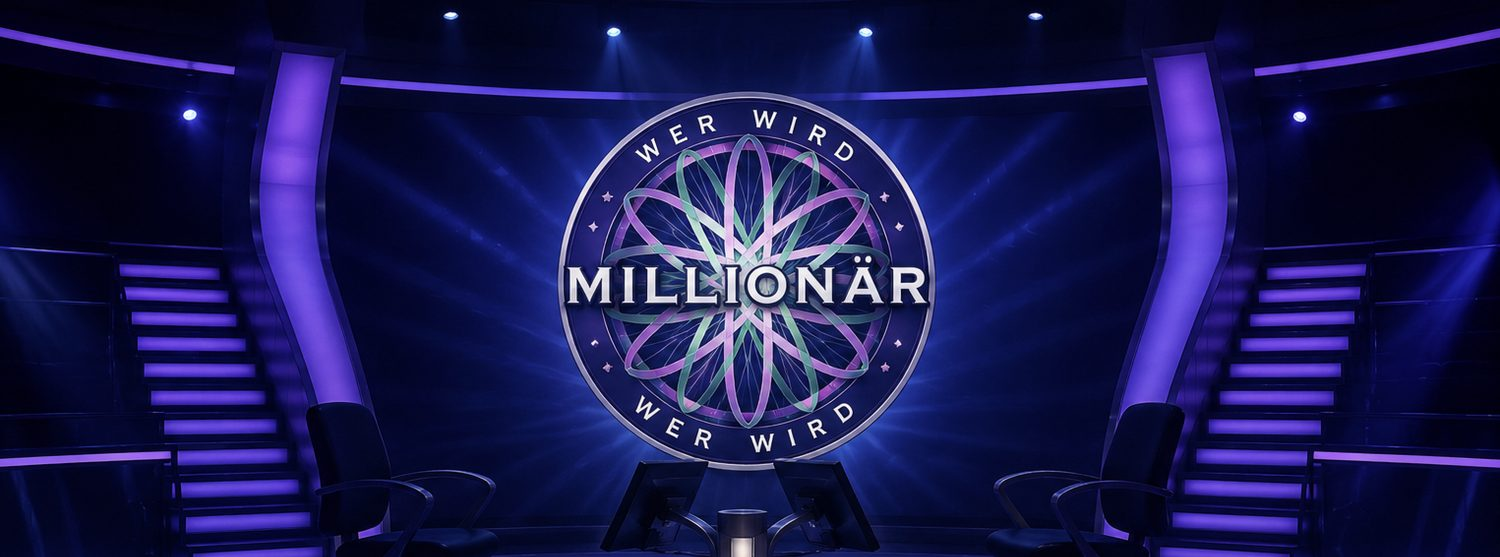
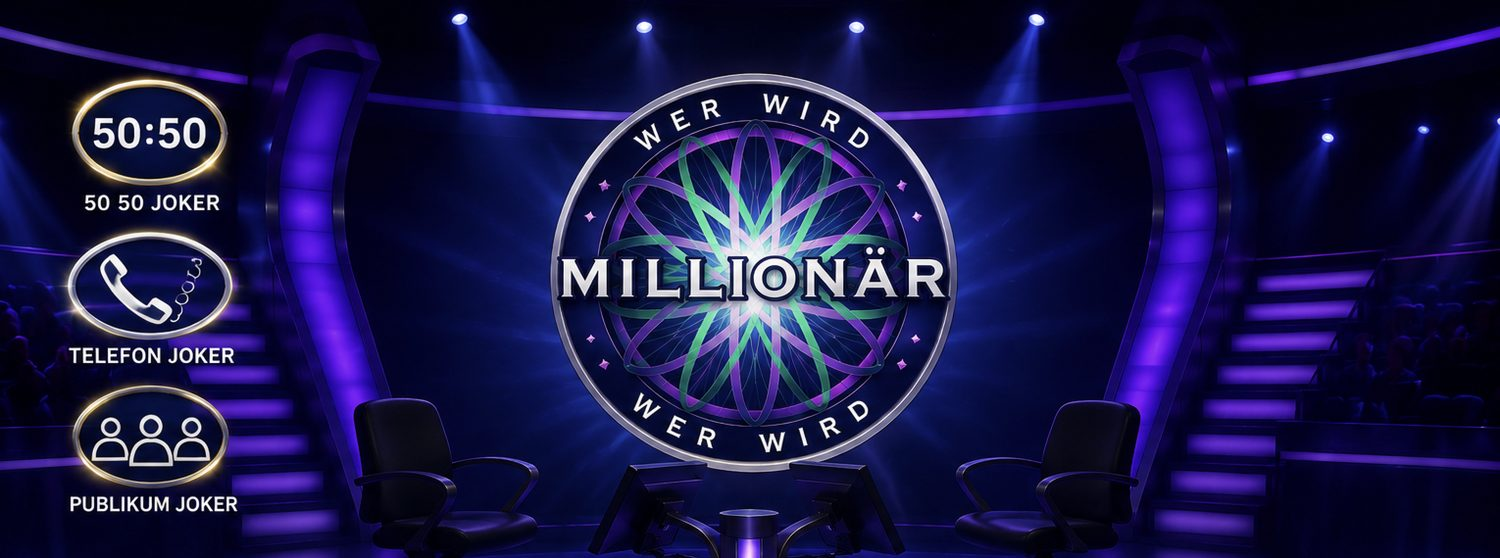
Rechtsfaehigkeit: drei spielbare Joker auf der Millionaers-Buehne

diff --git a/rechtsfaehigkeit.html b/rechtsfaehigkeit.html
@@ -109,7 +109,7 @@ h3{ font-size:15px; margin:16px 0 6px; color:var(--petrol); }
 .buehne{
   border-radius:16px; overflow:hidden; position:relative;
   background:#060a2a url('millionaer_buehne.jpg?v=1') top center / 100% auto no-repeat;
-  padding:clamp(120px,24vw,265px) clamp(14px,3vw,60px) 28px;
+  padding:38% clamp(14px,3vw,60px) 28px;
   box-shadow:0 8px 30px rgba(6,10,42,.5);
 }
 .buehne::before{
@@ -156,6 +156,42 @@ h3{ font-size:15px; margin:16px 0 6px; color:var(--petrol); }
 }
 .q-neustart:hover{ background:#fff; }
 .buehne .qstand{ color:#F3CE8E; text-align:center; margin-bottom:0; }
+/* Joker */
+.joker-overlay{ position:absolute; top:0; left:0; width:100%; aspect-ratio:3060/1139; pointer-events:none; }
+.joker-overlay button{
+  position:absolute; left:4.3%; width:10.4%; pointer-events:auto;
+  background:transparent; border:none; border-radius:50%; cursor:pointer;
+  transition:box-shadow .15s;
+}
+.joker-overlay button:hover{ box-shadow:0 0 0 3px rgba(243,206,142,.85), 0 0 24px rgba(243,206,142,.6); }
+.joker-overlay #j5050{ top:14.5%; height:17.5%; }
+.joker-overlay #jtel{ top:42.5%; height:19%; }
+.joker-overlay #jpub{ top:70.5%; height:19.5%; }
+.joker-overlay button.verbraucht{ pointer-events:none; background:rgba(4,6,28,.55); }
+.joker-overlay button.verbraucht::after{
+  content:'✕'; position:absolute; inset:0; display:flex; align-items:center; justify-content:center;
+  color:#ff7a6e; font-size:clamp(18px,2.6vw,34px); font-weight:800;
+}
+.joker-zeile{ display:none; gap:8px; justify-content:center; margin:0 0 12px; }
+.joker-zeile button{
+  font:inherit; font-weight:800; font-size:13px; cursor:pointer;
+  border:1.5px solid rgba(243,206,142,.7); border-radius:999px; color:#F3CE8E;
+  background:rgba(6,10,42,.6); padding:7px 14px;
+}
+.joker-zeile button.verbraucht{ opacity:.35; pointer-events:none; text-decoration:line-through; }
+.joker-ausgabe{
+  display:none; max-width:640px; margin:0 auto 14px; padding:12px 16px; border-radius:12px;
+  background:rgba(6,10,42,.75); border:1.5px solid rgba(243,206,142,.55); color:#fff; font-size:14px;
+}
+.joker-ausgabe.zeig{ display:block; }
+.joker-ausgabe .balkenzeile{ display:flex; align-items:center; gap:8px; margin:5px 0; }
+.joker-ausgabe .balkenzeile b{ width:22px; color:#F3CE8E; }
+.joker-ausgabe .balken{ height:16px; background:linear-gradient(180deg,#5a79e8,#2c48b8); border-radius:4px; }
+.joker-ausgabe .prozent{ font-size:12.5px; color:#aab4e8; }
+@media (max-width:900px){
+  .joker-overlay{ display:none; }
+  .joker-zeile{ display:flex; flex-wrap:wrap; }
+}
 @media (max-width:640px){
   .buehne .qoptzeile{ grid-template-columns:1fr; }
   .buehne{ background-size:cover; }
@@ -322,7 +358,18 @@ footer{ text-align:center; padding:18px 12px 26px; }
   <!-- ================= QUIZ ================= -->
   <section class="seite" id="seite-quiz">
     <div class="buehne">
+      <div class="joker-overlay" aria-label="Joker">
+        <button type="button" id="j5050" data-joker="fifty" title="50:50-Joker – eine falsche Antwort verschwindet"></button>
+        <button type="button" id="jtel" data-joker="tel" title="Telefonjoker – ein Anruf, ein Tipp"></button>
+        <button type="button" id="jpub" data-joker="pub" title="Publikumsjoker – das Publikum stimmt ab"></button>
+      </div>
       <p class="b-hinweis">Eine falsche Antwort – und die Runde ist vorbei. Jede Runde bringt andere Fragen. <b>Wer schafft 10 am Stück?</b></p>
+      <div class="joker-zeile">
+        <button type="button" data-joker="fifty">50:50</button>
+        <button type="button" data-joker="tel">☎ Telefon</button>
+        <button type="button" data-joker="pub">👥 Publikum</button>
+      </div>
+      <div class="joker-ausgabe" id="jokerAusgabe"></div>
       <div class="leiter" id="qLeiter"></div>
       <div id="quizListe"></div>
       <p class="qstand" id="qstand"></p>
@@ -589,6 +636,7 @@ var POOL = [
 ];
 var ZIEL = 10;
 var runde = [], stufe = 0, best = 0;
+var joker = { fifty:false, tel:false, pub:false };
 try{ best = parseInt(sessionStorage.getItem('recht_quiz_best')||'0',10)||0; }catch(e){}
 var ql = document.getElementById('quizListe');
 var leiter = document.getElementById('qLeiter');
@@ -618,14 +666,73 @@ function zeigeStand(){
 function neueRunde(){
   runde = mischen(POOL).slice(0, ZIEL);
   stufe = 0;
+  joker = { fifty:false, tel:false, pub:false };
+  document.querySelectorAll('[data-joker]').forEach(function(b){ b.classList.remove('verbraucht'); });
   zeichneLeiter(); zeigeStand();
   naechsteFrage();
 }
+var jokerAusgabe = document.getElementById('jokerAusgabe');
+function jokerZu(){ jokerAusgabe.classList.remove('zeig'); jokerAusgabe.innerHTML=''; }
+function verbrauche(name){
+  joker[name] = true;
+  document.querySelectorAll('[data-joker="'+name+'"]').forEach(function(b){ b.classList.add('verbraucht'); });
+}
+function nutzeJoker(name){
+  var q = runde[stufe];
+  if (!q || joker[name] || document.querySelector('.q-ende')) return;
+  var opts = Array.prototype.slice.call(document.querySelectorAll('.qoptzeile .qopt'));
+  if (!opts.length) return;
+  verbrauche(name);
+  if (name === 'fifty'){
+    var falsche = [];
+    opts.forEach(function(b, j){ if (j !== q.r && b.style.visibility !== 'hidden') falsche.push(j); });
+    var weg = falsche[Math.floor(Math.random()*falsche.length)];
+    opts[weg].style.visibility = 'hidden';
+    jokerAusgabe.innerHTML = '<b style="color:#F3CE8E">50:50:</b> Eine falsche Antwort ist gestrichen.';
+    jokerAusgabe.classList.add('zeig');
+  }
+  if (name === 'tel'){
+    var sichtbar = [];
+    opts.forEach(function(b, j){ if (b.style.visibility !== 'hidden') sichtbar.push(j); });
+    var tipp = (Math.random() < 0.75) ? q.r : sichtbar.filter(function(j){ return j !== q.r; })[0];
+    if (tipp === undefined) tipp = q.r;
+    var buchst = ['A','B','C','D'][tipp];
+    jokerAusgabe.innerHTML = '<b style="color:#F3CE8E">☎ Dein Telefonjoker:</b> «Hmm … ich bin ziemlich sicher, es ist <b>' + buchst + '</b>. Aber nagle mich nicht fest!»'
+      + '<div class="prozent" style="margin-top:4px">Telefonjoker liegen meistens richtig – aber nicht immer.</div>';
+    jokerAusgabe.classList.add('zeig');
+  }
+  if (name === 'pub'){
+    var sicht = [];
+    opts.forEach(function(b, j){ if (b.style.visibility !== 'hidden') sicht.push(j); });
+    var korrekt = 45 + Math.floor(Math.random()*31);
+    var rest = 100 - korrekt;
+    var andere = sicht.filter(function(j){ return j !== q.r; });
+    var werte = {};
+    werte[q.r] = korrekt;
+    andere.forEach(function(j, k){
+      if (k === andere.length-1){ werte[j] = rest; }
+      else { var t = Math.floor(Math.random()*rest); werte[j] = t; rest -= t; }
+    });
+    var html = '<b style="color:#F3CE8E">👥 Das Publikum hat abgestimmt:</b>';
+    sicht.forEach(function(j){
+      html += '<div class="balkenzeile"><b>' + ['A','B','C','D'][j] + '</b>'
+        + '<div class="balken" style="width:' + Math.max(3, werte[j]*2.6) + 'px"></div>'
+        + '<span class="prozent">' + werte[j] + ' %</span></div>';
+    });
+    html += '<div class="prozent" style="margin-top:4px">Auch das Publikum kann sich täuschen.</div>';
+    jokerAusgabe.innerHTML = html;
+    jokerAusgabe.classList.add('zeig');
+  }
+}
+document.querySelectorAll('[data-joker]').forEach(function(b){
+  b.addEventListener('click', function(){ nutzeJoker(b.dataset.joker); });
+});
 function merkeBest(){
   if (stufe > best){ best = stufe; try{ sessionStorage.setItem('recht_quiz_best', String(best)); }catch(e){} }
 }
 function naechsteFrage(){
   var q = runde[stufe];
+  jokerZu();
   ql.innerHTML = '';
   var div = document.createElement('div');
   div.innerHTML = '<div class="qfrage raute">Frage ' + (stufe+1) + ' von ' + ZIEL + ': ' + q.f + '</div>';
